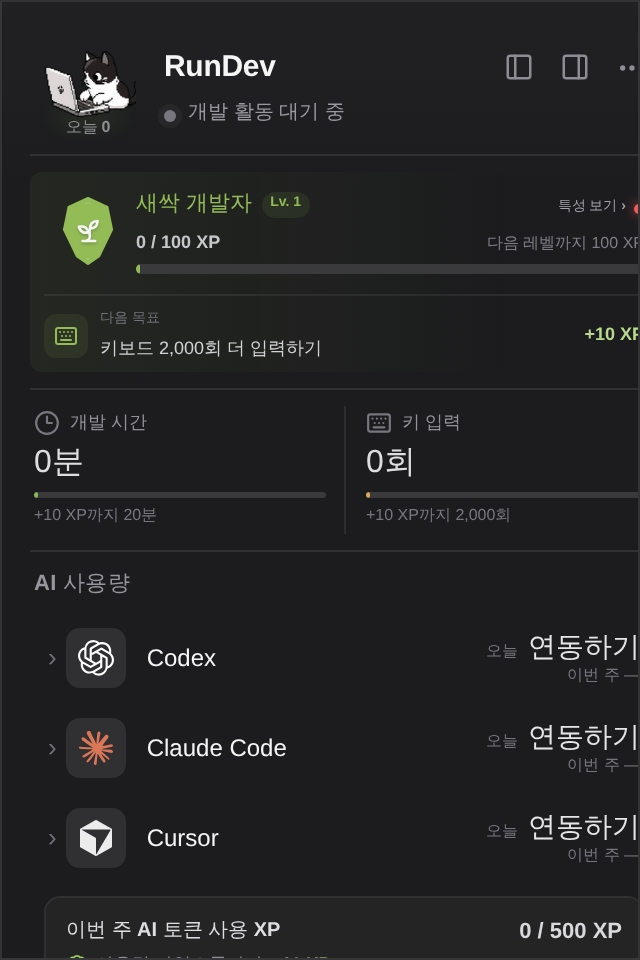
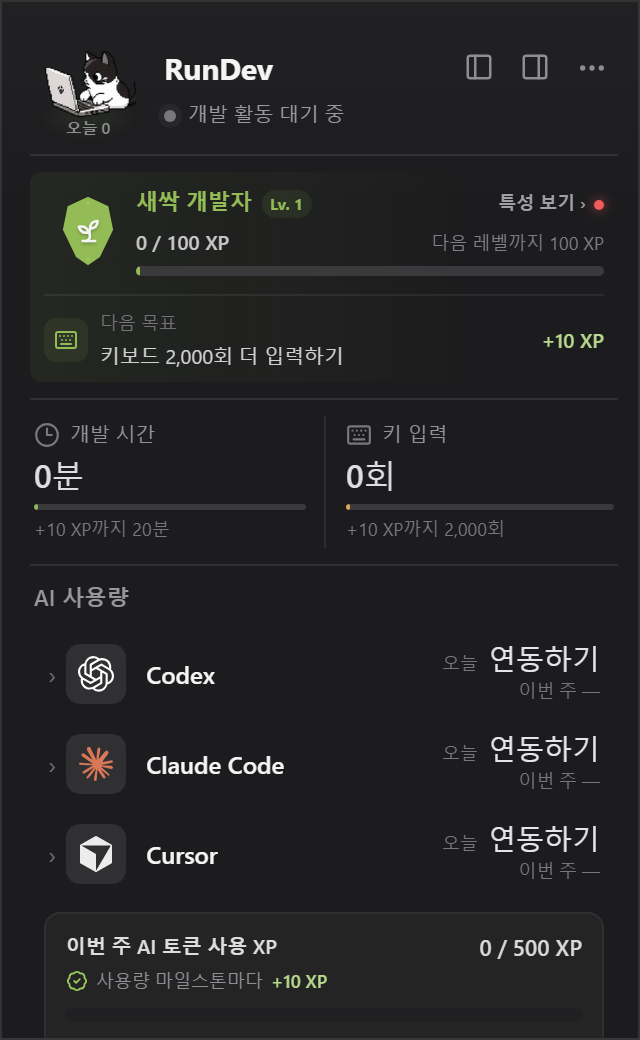
chore(release): v0.6.10 준비

diff --git a/src/styles.css b/src/styles.css
@@ -51,8 +51,8 @@ html.character-body #root { height: 100%; }
   position: relative;
   display: flex;
   width: 100%;
-  height: 480px;
-  min-height: 480px;
+  height: 100vh;
+  min-height: 0;
   overflow: hidden;
   background:
     linear-gradient(180deg, rgba(255,255,255,.025), transparent 20%),
@@ -67,9 +67,9 @@ html.character-body #root { height: 100%; }
 }
 
 .popover-main {
-  flex: 0 0 338px;
+  flex: 0 0 318px;
   min-width: 0;
-  width: 338px;
+  width: 318px;
   height: 100%;
   padding: 14px 10px 10px 14px;
   overflow-x: hidden;
@@ -658,8 +658,8 @@ html.character-body #root { height: 100%; }
 .runner-copy { display: flex; min-width: 0; flex: 1; flex-direction: column; gap: 4px; }
 .runner-copy strong { font-size: 15px; letter-spacing: -.01em; }
 .runner-title-row { display: flex; min-width: 0; align-items: center; gap: 7px; }
-.xp-boost-badge { display: flex; min-width: 0; align-items: center; gap: 3px; padding: 2px 5px; color: #f3c969; background: rgba(243,201,105,.11); border: 1px solid rgba(243,201,105,.25); border-radius: 999px; font-size: 7px; line-height: 1; white-space: nowrap; }
-.xp-boost-badge b { font-size: 8px; }
+.xp-boost-badge { display: flex; min-width: 0; align-items: center; gap: 3px; padding: 2px 5px; color: #f3c969; background: rgba(243,201,105,.11); border: 1px solid rgba(243,201,105,.25); border-radius: 999px; font-size: 8px; line-height: 1; white-space: nowrap; }
+.xp-boost-badge b { font-size: 9px; }
 .xp-boost-badge span { overflow: hidden; color: #c7ad75; text-overflow: ellipsis; }
 .header-activity-row { display: flex; min-width: 0; align-items: center; justify-content: space-between; }
 .header-activity-row .activity-status { flex: 1; }
@@ -674,13 +674,13 @@ html.character-body #root { height: 100%; }
 .header-action-button.active { color: #c9dda9; background: rgba(139,195,74,.1); }
 .header-action-button:focus-visible { outline: 1px solid rgba(167,209,116,.72); outline-offset: 1px; }
 .header-action-button .update-dot { position: absolute; top: 3px; right: 3px; width: 5px; height: 5px; background: #9bce5a; border: 1px solid #1c1c1e; border-radius: 50%; }
-.header-action-button[data-tooltip]::after { position: absolute; z-index: 32; top: calc(100% + 6px); right: 0; width: max-content; max-width: 132px; padding: 4px 6px; pointer-events: none; color: #e5e5e7; background: #2b2b2f; border: 1px solid rgba(255,255,255,.11); border-radius: 5px; box-shadow: 0 5px 14px rgba(0,0,0,.3); content: attr(data-tooltip); font-size: 8px; line-height: 1.2; opacity: 0; transform: translateY(-2px); transition: opacity .1s ease .16s, transform .1s ease .16s; white-space: nowrap; }
+.header-action-button[data-tooltip]::after { position: absolute; z-index: 32; top: calc(100% + 6px); right: 0; width: max-content; max-width: 132px; padding: 4px 6px; pointer-events: none; color: #e5e5e7; background: #2b2b2f; border: 1px solid rgba(255,255,255,.11); border-radius: 5px; box-shadow: 0 5px 14px rgba(0,0,0,.3); content: attr(data-tooltip); font-size: 9px; line-height: 1.2; opacity: 0; transform: translateY(-2px); transition: opacity .1s ease .16s, transform .1s ease .16s; white-space: nowrap; }
 .header-action-button[data-tooltip]:hover::after,
 .header-action-button[data-tooltip]:focus-visible::after { opacity: 1; transform: translateY(0); }
 .header-action-button[aria-expanded="true"]::after { display: none; }
 .header-overflow { position: relative; }
 .header-overflow-menu { position: absolute; z-index: 31; top: calc(100% + 6px); right: 0; display: flex; width: 162px; padding: 4px; background: #29292d; border: 1px solid rgba(255,255,255,.12); border-radius: 8px; box-shadow: 0 10px 26px rgba(0,0,0,.42); flex-direction: column; }
-.header-overflow-menu > button { position: relative; display: flex; width: 100%; min-height: 29px; padding: 0 8px; align-items: center; gap: 8px; color: #c7c7cb; background: transparent; border: 0; border-radius: 5px; cursor: pointer; font-size: 9px; text-align: left; }
+.header-overflow-menu > button { position: relative; display: flex; width: 100%; min-height: 30px; padding: 0 8px; align-items: center; gap: 8px; color: #c7c7cb; background: transparent; border: 0; border-radius: 5px; cursor: pointer; font-size: 10px; text-align: left; }
 .header-overflow-menu > button:hover,
 .header-overflow-menu > button:focus-visible { color: #fff; background: rgba(255,255,255,.075); outline: 0; }
 .header-overflow-menu > button svg { flex: 0 0 auto; color: #8e8e94; }
@@ -695,13 +695,13 @@ html.character-body #root { height: 100%; }
 .activity-metrics { display: grid; grid-template-columns: repeat(2, minmax(0, 1fr)); margin-bottom: 7px; }
 .activity-metric { display: flex; min-width: 0; flex-direction: column; gap: 3px; padding: 2px 9px 3px 0; }
 .activity-metric + .activity-metric { padding-right: 0; padding-left: 10px; border-left: 1px solid rgba(255,255,255,.08); }
-.activity-metric span { display: flex; align-items: center; gap: 5px; color: #929298; font-size: 9px; }
+.activity-metric span { display: flex; align-items: center; gap: 5px; color: #929298; font-size: 10px; }
 .activity-metric span svg { color: #77777d; }
 .activity-metric strong { color: #dedee0; font-size: 16px; font-weight: 500; line-height: 1.2; font-variant-numeric: tabular-nums; }
 .activity-metric .meter { height: 3px; margin-top: 2px; }
 .activity-metric:first-child .meter span { background: #88b95a; }
 .activity-metric:last-child .meter span { background: #d9a957; }
-.activity-metric small { overflow: hidden; color: #77777d; font-size: 8px; text-overflow: ellipsis; white-space: nowrap; }
+.activity-metric small { overflow: hidden; color: #77777d; font-size: 9px; text-overflow: ellipsis; white-space: nowrap; }
 .activity-section > .section-title,
 .activity-section > .focus-apps { display: none; }
 .info-section > .primary-stat,
@@ -870,7 +870,7 @@ html.character-body #root { height: 100%; }
 .ai-weekly-xp-segment.codex { background: #82bd67; }
 .ai-weekly-xp-segment.claude { background: #d98658; }
 .ai-weekly-xp-segment.cursor { background: #788fda; }
-.ai-weekly-xp-legend { display: flex; align-items: center; gap: 9px; margin-top: 6px; color: #77777d; font-size: 8px; }
+.ai-weekly-xp-legend { display: flex; align-items: center; gap: 9px; margin-top: 6px; color: #77777d; font-size: 9px; }
 .ai-weekly-xp-legend span { display: inline-flex; align-items: center; gap: 3px; white-space: nowrap; }
 .ai-weekly-xp-legend i { width: 5px; height: 5px; border-radius: 50%; }
 .ai-weekly-xp-legend .codex i { background: #82bd67; }
@@ -933,7 +933,7 @@ html.character-body #root { height: 100%; }
 .provider-summary-today span,
 .provider-summary-week {
   color: #77777d;
-  font-size: 8px;
+  font-size: 9px;
   line-height: 1.2;
 }
 .provider-summary-today b {
@@ -992,7 +992,7 @@ html.character-body #root { height: 100%; }
 }
 .provider-inline-actions button:disabled { cursor: wait; opacity: .55; }
 .adapter-error { margin: 7px 0 0 40px; color: #ff9a91; font-size: 10px; }
-.dialog-backdrop { position: absolute; z-index: 20; top: 0; bottom: 0; left: 0; display: grid; width: 340px; place-items: center; padding: 18px; background: rgba(0,0,0,.66); backdrop-filter: blur(3px); }
+.dialog-backdrop { position: absolute; z-index: 20; top: 0; bottom: 0; left: 0; display: grid; width: 320px; place-items: center; padding: 18px; background: rgba(0,0,0,.66); backdrop-filter: blur(3px); }
 .popover-shell.panel-left .dialog-backdrop { left: 172px; }
 .dialog-backdrop.trait-backdrop { padding: 4px; }
 .account-dialog { width: 100%; padding: 16px; background: #29292c; border: 1px solid rgba(255,255,255,.13); border-radius: 10px; box-shadow: 0 16px 40px rgba(0,0,0,.38); }
@@ -1103,12 +1103,12 @@ html.character-body #root { height: 100%; }
 .growth-level-copy > span { display: flex; align-items: baseline; justify-content: space-between; gap: 8px; }
 .growth-tier-title { display: inline-flex; min-width: 0; align-items: center; gap: 5px; }
 .growth-level-copy > span:first-child strong { overflow: hidden; color: var(--tier-color); font-size: 11px; font-weight: 650; text-overflow: ellipsis; white-space: nowrap; }
-.growth-tier-title > b { flex: 0 0 auto; padding: 1px 4px; color: var(--tier-color); background: color-mix(in srgb, var(--tier-color) 10%, transparent); border-radius: 99px; font-size: 7px; font-weight: 650; }
-.growth-level-copy > span:first-child small { font-size: 7px; }
+.growth-tier-title > b { flex: 0 0 auto; padding: 1px 4px; color: var(--tier-color); background: color-mix(in srgb, var(--tier-color) 10%, transparent); border-radius: 99px; font-size: 8px; font-weight: 650; }
+.growth-level-copy > span:first-child small { font-size: 9px; }
 .growth-trait-link { display: inline-flex; flex: 0 0 auto; align-items: center; gap: 4px; color: #a0a0a6; font-weight: 550; white-space: nowrap; transition: color .15s ease; }
 .growth-trait-alert { display: inline-block; width: 5px; height: 5px; background: #f05b5b; border-radius: 50%; box-shadow: 0 0 6px rgba(240,91,91,.7); }
-.growth-level-copy > span:nth-child(2) b { color: #c7c7ca; font-size: 9px; font-weight: 550; font-variant-numeric: tabular-nums; }
-.growth-level-copy > span:nth-child(2) small { color: #7e7e84; font-size: 8px; white-space: nowrap; }
+.growth-level-copy > span:nth-child(2) b { color: #c7c7ca; font-size: 10px; font-weight: 550; font-variant-numeric: tabular-nums; }
+.growth-level-copy > span:nth-child(2) small { color: #7e7e84; font-size: 9px; white-space: nowrap; }
 .growth-level-copy > .meter span { background: var(--tier-color); }
 .growth-level:hover .growth-tier-emblem { filter: drop-shadow(0 3px 7px color-mix(in srgb, var(--tier-color) 30%, transparent)); }
 .growth-level:hover .growth-level-copy > span:first-child strong { color: color-mix(in srgb, var(--tier-color) 82%, white); }
@@ -1116,9 +1116,9 @@ html.character-body #root { height: 100%; }
 .growth-level:focus-visible { border-radius: 4px; outline: 1px solid color-mix(in srgb, var(--tier-color) 55%, transparent); outline-offset: 3px; }
 .growth-next-goal { display: grid; grid-template-columns: 22px minmax(0, 1fr) auto; align-items: center; gap: 6px; margin-top: 8px; padding-top: 7px; border-top: 1px solid rgba(255,255,255,.065); }
 .growth-next-goal > i { display: grid; place-items: center; width: 22px; height: 22px; color: var(--tier-color); background: color-mix(in srgb, var(--tier-color) 10%, transparent); border-radius: 6px; }
-.growth-next-goal > span { display: flex; min-width: 0; flex-direction: column; gap: 2px; overflow: hidden; color: #d2d2d5; font-size: 9px; text-overflow: ellipsis; white-space: nowrap; }
-.growth-next-goal small { color: #737379; font-size: 7px; }
-.growth-next-goal > b { color: #b7d88d; font-size: 9px; font-weight: 600; }
+.growth-next-goal > span { display: flex; min-width: 0; flex-direction: column; gap: 2px; overflow: hidden; color: #d2d2d5; font-size: 10px; text-overflow: ellipsis; white-space: nowrap; }
+.growth-next-goal small { color: #737379; font-size: 9px; }
+.growth-next-goal > b { color: #b7d88d; font-size: 10px; font-weight: 600; }
 
 .emblem-showcase {
   width: 920px;

diff --git a/src/App.tsx b/src/App.tsx
@@ -637,6 +637,7 @@ export function App() {
   const [weeklyStats, setWeeklyStats] = useState<ActivityStats | null>(null);
   const [traitProgress, setTraitProgress] = useState<TraitProgress | null>(null);
   const [traitDialogOpen, setTraitDialogOpen] = useState(false);
+  const [overlayHeight, setOverlayHeight] = useState(520);
   const [xpGainFx, setXpGainFx] = useState<number | null>(() =>
     new URLSearchParams(window.location.search).has("showXpFx") ? 10 : null
   );
@@ -1114,6 +1115,18 @@ export function App() {
       ? "right"
       : closingPanelSide;
 
+  useEffect(() => {
+    const updateOverlayHeight = () => {
+      const nextHeight = shellRef.current?.clientHeight || window.innerHeight;
+      if (nextHeight >= 400 && nextHeight <= 520) {
+        setOverlayHeight(nextHeight);
+      }
+    };
+    updateOverlayHeight();
+    window.addEventListener("resize", updateOverlayHeight);
+    return () => window.removeEventListener("resize", updateOverlayHeight);
+  }, []);
+
   if (showLevelShowcase) {
     return <LevelShowcase />;
   }
@@ -1218,8 +1231,8 @@ export function App() {
     >
       <WhipCrackOverlay
         ref={whipCrackRef}
-        width={renderedPanelSide ? 512 : 340}
-        height={480}
+        width={renderedPanelSide ? 492 : 320}
+        height={overlayHeight}
       />
       <PingModeOverlay rootRef={shellRef} onWhip={performWhip} />
       {(statsExpanded || closingPanelSide === "left") && <StatsPanel dailyStats={dailyStats} weeklyStats={weeklyStats} activityHistory={activityHistory} activeHistoryDays={activeHistoryDays} closing={closingPanelSide === "left"} onClose={() => void toggleStatsPanel()} />}

diff --git a/src/App.test.tsx b/src/App.test.tsx
@@ -7,7 +7,8 @@ describe("App", () => {
   it("renders the starter dashboard", async () => {
     localStorage.clear();
     render(<App />);
-    expect(document.querySelector(".whip-crack-canvas")).toHaveAttribute("width", "340");
+    expect(document.querySelector(".whip-crack-canvas")).toHaveAttribute("width", "320");
+    expect(document.querySelector(".whip-crack-canvas")).toHaveAttribute("height", "520");
     expect(await screen.findByText("RunDev")).toBeInTheDocument();
     const levelButton = await screen.findByRole("button", { name: /레벨 1 · 새싹 개발자 · 특성 열기/ });
     expect(levelButton).toHaveAccessibleName(/사용 가능 포인트 3/);
@@ -31,7 +32,7 @@ describe("App", () => {
       "aria-expanded",
       "true"
     );
-    expect(document.querySelector(".whip-crack-canvas")).toHaveAttribute("width", "512");
+    expect(document.querySelector(".whip-crack-canvas")).toHaveAttribute("width", "492");
     expect(screen.getByText("논리 코어")).toBeInTheDocument();
     expect(screen.getByText("실행 후 최고")).toBeInTheDocument();
     fireEvent.click(screen.getByRole("button", { name: "장치 상세 접기" }));

diff --git a/src-tauri/src/tray/mod.rs b/src-tauri/src/tray/mod.rs
@@ -15,6 +15,13 @@ static COMPACT_MAIN_X: OnceLock<Mutex<Option<i32>>> = OnceLock::new();
 static FOLLOW_POINTER_ITEM: OnceLock<CheckMenuItem<tauri::Wry>> = OnceLock::new();
 static ROAMING_ITEM: OnceLock<CheckMenuItem<tauri::Wry>> = OnceLock::new();
 
+const COMPACT_WIDTH: f64 = 320.0;
+const EXPANDED_WIDTH: f64 = 492.0;
+const PREFERRED_HEIGHT: f64 = 520.0;
+const COMPACT_HEIGHT: f64 = 480.0;
+const MINIMUM_HEIGHT: f64 = 400.0;
+const WORK_AREA_GAP: f64 = 8.0;
+
 const CAT_FRAMES: [&[u8]; 4] = [
     include_bytes!("../../icons/tray/coding/01.png").as_slice(),
     include_bytes!("../../icons/tray/coding/02.png").as_slice(),
@@ -233,14 +240,11 @@ pub(crate) fn set_system_panel_expanded(
     expansion_side: Option<&str>,
     previous_expansion_side: Option<&str>,
 ) -> Result<(), String> {
-    const COMPACT_WIDTH: f64 = 340.0;
-    const EXPANDED_WIDTH: f64 = 512.0;
-    const HEIGHT: f64 = 480.0;
-
     let window = app
         .get_webview_window("main")
         .ok_or_else(|| "main window is unavailable".to_string())?;
     let scale = window.scale_factor().map_err(|error| error.to_string())?;
+    let monitor = window.current_monitor().ok().flatten();
     let current_size = window.outer_size().map_err(|error| error.to_string())?;
     let current_position = window.outer_position().map_err(|error| error.to_string())?;
     let target_width = ((if expanded {
@@ -249,7 +253,12 @@ pub(crate) fn set_system_panel_expanded(
         COMPACT_WIDTH
     }) * scale)
         .round() as u32;
-    let target_height = (HEIGHT * scale).round() as u32;
+    let target_height = preferred_main_window_height(
+        scale,
+        monitor
+            .as_ref()
+            .map(|monitor| monitor.work_area().size.height),
+    );
     let compact_width = (COMPACT_WIDTH * scale).round() as u32;
     let current_left_inset = if previous_expansion_side == Some("left") {
         current_size.width.saturating_sub(compact_width)
@@ -275,9 +284,9 @@ pub(crate) fn set_system_panel_expanded(
     let mut x = main_x.saturating_sub(i32::try_from(target_left_inset).unwrap_or(i32::MAX));
     let mut y = current_position.y;
 
-    if let Ok(Some(monitor)) = window.current_monitor() {
+    if let Some(monitor) = monitor {
         let work = monitor.work_area();
-        let gap = (8.0 * scale).round() as i32;
+        let gap = (WORK_AREA_GAP * scale).round() as i32;
         let min_x = work.position.x.saturating_add(gap);
         let min_y = work.position.y.saturating_add(gap);
         let max_x = work
@@ -306,6 +315,25 @@ pub(crate) fn set_system_panel_expanded(
         *anchor.lock().map_err(|error| error.to_string())? = None;
     }
     Ok(())
+}
+
+fn preferred_main_window_height(scale: f64, work_area_height: Option<u32>) -> u32 {
+    let preferred = (PREFERRED_HEIGHT * scale).round() as u32;
+    let compact = (COMPACT_HEIGHT * scale).round() as u32;
+    let minimum = (MINIMUM_HEIGHT * scale).round() as u32;
+    let reserved_gap = (WORK_AREA_GAP * 2.0 * scale).round() as u32;
+
+    match work_area_height {
+        Some(height) => {
+            let available = height.saturating_sub(reserved_gap);
+            if available >= preferred {
+                preferred
+            } else {
+                available.min(compact).max(minimum.min(available))
+            }
+        }
+        None => preferred,
+    }
 }
 
 fn toggle_main_window(app: &tauri::AppHandle, tray_rect: Rect) {
@@ -363,7 +391,7 @@ fn position_near_tray(app: &tauri::AppHandle, window: &tauri::WebviewWindow, tra
     let work_bottom = work_top + f64::from(work.size.height);
     let width = f64::from(window_size.width);
     let height = f64::from(window_size.height);
-    let gap = 8.0;
+    let gap = WORK_AREA_GAP;
 
     let mut x = tray_center_x - width / 2.0;
     let mut y;
@@ -387,4 +415,21 @@ fn position_near_tray(app: &tauri::AppHandle, window: &tauri::WebviewWindow, tra
     x = x.clamp(work_left + gap, work_right - width - gap);
     y = y.clamp(work_top + gap, work_bottom - height - gap);
     let _ = window.set_position(PhysicalPosition::new(x.round() as i32, y.round() as i32));
+}
+
+#[cfg(test)]
+mod tests {
+    use super::preferred_main_window_height;
+
+    #[test]
+    fn uses_preferred_height_when_the_work_area_has_room() {
+        assert_eq!(preferred_main_window_height(1.0, Some(800)), 520);
+        assert_eq!(preferred_main_window_height(1.5, Some(1_200)), 780);
+    }
+
+    #[test]
+    fn falls_back_to_compact_height_for_short_work_areas() {
+        assert_eq!(preferred_main_window_height(1.0, Some(510)), 480);
+        assert_eq!(preferred_main_window_height(1.0, Some(450)), 434);
+    }
 }

diff --git a/docs/decisions/0038-adaptive-tray-popover-size.md b/docs/decisions/0038-adaptive-tray-popover-size.md
@@ -1,0 +1,45 @@
+# 0038. 세로형 적응식 트레이 팝오버 크기
+
+- 상태: Accepted
+- 날짜: 2026-08-14
+
+## 맥락
+
+기본 340×480 크기는 오른쪽 52px 장치 요약 레일을 포함하던 시점에 정했다. 장치와
+통계 진입점을 헤더와 좌우 확장 패널로 옮긴 뒤 외부 창 크기는 같지만 실제 본문 폭은
+약 286px에서 318px 이상으로 넓어졌다. 반면 성장, 활동, AI 사용량이 세로로 이어져
+본문의 작은 보조 글자와 스크롤 밀도는 높아졌다.
+
+트레이 팝오버의 가로 점유를 줄이면서 핵심 숫자와 설명의 가독성을 높이고, 작은 작업
+영역에서도 화면 밖으로 벗어나지 않는 크기 정책이 필요하다.
+
+## 결정
+
+- 선호 기본 크기는 320×520 logical pixel이다.
+- 좌우 상세 패널 172px을 열면 492×520으로 확장한다.
+- 현재 모니터의 작업 영역에 상하 8px 여백을 포함해 520px이 들어가지 않으면 높이를
+  480px로 낮춘다. 480px도 들어가지 않으면 작업 영역 안에서 최소 400px까지 줄인다.
+- 프론트엔드는 고정 높이 대신 실제 WebView viewport 높이를 사용한다.
+- 핵심 상태와 성장 카드의 보조 글자를 키우고, 세부 정보는 스크롤과 확장 패널에 둔다.
+- 좌우 패널을 열고 닫을 때 본문 폭 320px은 유지한다.
+
+## 결과
+
+### 장점
+
+- 이전보다 가로로 퍼져 보이는 인상을 줄이면서 전체 화면 면적은 거의 유지한다.
+- 선호 높이에서는 핵심 정보 사이의 세로 여백과 텍스트 가독성을 높일 수 있다.
+- Windows 디스플레이 배율과 macOS의 작은 작업 영역에서도 팝오버가 잘리지 않는다.
+- 기본 폭과 확장 패널 폭의 합이 명확해 패널 전환 중 본문 흔들림을 막기 쉽다.
+
+### 단점
+
+- 작업 영역에 따라 같은 앱 버전의 팝오버 높이가 달라질 수 있다.
+- 480px 이하 환경에서는 일부 내용을 보기 위한 세로 스크롤이 더 필요하다.
+- 기존 340px 폭을 전제로 만든 문구와 모달을 다시 검수해야 한다.
+
+## 대안
+
+- 기존 340×480 고정 크기 유지
+- 360px 이상으로 넓혀 모든 정보를 한 화면에 표시
+- 사용자가 팝오버 자체를 자유롭게 리사이즈

diff --git a/docs/architecture/frontend.md b/docs/architecture/frontend.md
@@ -65,8 +65,8 @@ flowchart LR
 ## 디자인 원칙
 
 - RunCat 계열 메뉴바 유틸리티의 작은 정보 패널 밀도를 따른다.
-- 기본 팝오버 크기는 340×480이며, 장치 상세를 펼치면 본문 폭을 유지한 채
-  512×480으로 확장한다.
+- 기본 팝오버는 320×520을 선호하며, 모니터 작업 영역이 짧으면 높이를 480 이하로
+  줄인다. 좌우 상세 패널을 펼치면 본문 폭을 유지한 채 492px 너비로 확장한다.
 - 별도 캐릭터 창은 여백이 보존된 master 프레임을 사용하며 48×48 창에 표시한다.
 - 큰 관리자 페이지형 카드보다 구분선, 짧은 행, 얇은 meter를 사용한다.
 - AI provider 첫 화면은 이름과 오늘 토큰만 비교하고, 주간 집계·상태·출처·복구 기능은

diff --git a/CHANGELOG.md b/CHANGELOG.md
@@ -5,6 +5,14 @@ RunDev의 사용자에게 의미 있는 변경을 기록한다. 커밋 목록이
 
 ## Unreleased
 
+## 0.6.10 - 2026-08-14
+
+### Changed
+
+- 기본 트레이 팝오버를 가로로 덜 퍼진 320×520 세로형 비율로 조정하고, 작은 작업 영역에서는 높이를 자동으로 줄이도록 변경했습니다.
+- 활동·성장·AI 사용량의 작은 보조 글자 크기와 대비를 높여 메인 화면의 가독성을 개선했습니다.
+- 좌우 통계·시스템 패널과 모달, 화면 효과가 새로운 기본 폭을 유지하도록 크기 전환을 정리했습니다.
+
 ## 0.6.9 - 2026-08-14
 
 ### Changed

diff --git a/docs/decisions/0017-expandable-host-metrics-detail.md b/docs/decisions/0017-expandable-host-metrics-detail.md
@@ -3,6 +3,9 @@
 - 상태: Accepted
 - 날짜: 2026-07-30
 
+> 기본 레일과 창 크기 결정은 이후 헤더·좌우 패널 구조와
+> [ADR-0038](0038-adaptive-tray-popover-size.md)에서 대체했습니다.
+
 ## 맥락
 
 오른쪽 장치 상태 strip의 정사각형 타일은 대표 수치를 빠르게 확인하기에는 충분하지만,

diff --git a/docs/decisions/0003-tray-popover-lifecycle.md b/docs/decisions/0003-tray-popover-lifecycle.md
@@ -3,6 +3,8 @@
 - 상태: Accepted
 - 날짜: 2026-07-28
 
+> 크기 결정은 [ADR-0038](0038-adaptive-tray-popover-size.md)에서 대체했습니다.
+
 ## 맥락
 
 RunDev의 기본 상호작용은 RunCat과 같은 트레이 유틸리티다. 일반 데스크톱 창처럼
